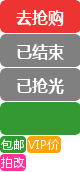
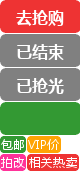
go

Changed region(s): [[0.325, 0.8721, 1.0, 1.0]]

diff --git a/static/public/css/main.css b/static/public/css/main.css
@@ -502,11 +502,12 @@ b.sns-qq_haoyou  { background-position: 0 -3024px; }
     font-weight: bolder;
     font-size: 16px;
     line-height: 33px;
-    background-image: url(/img/button.png);
+    background-image: url(/img/button.png?v=20131011);
     background-position-x: 0;
 }
 .item .action:hover {
     opacity: 0.8;
+    filter: alpha(opacity=80);
     color: white;
     text-decoration: none;
 }
@@ -523,11 +524,11 @@ b.sns-qq_haoyou  { background-position: 0 -3024px; }
     background-position-y: -102px;
 }
 
-.item .post, .item .vip, .item .gai {
+.item .post, .item .vip, .item .gai, .item .remai {
     display: inline-block;
     height: 17px;
     vertical-align: text-bottom;
-    background-image: url(/img/button.png);
+    background-image: url(/img/button.png?v=20131011);
 }
 .item .post {
     width: 26px;
@@ -542,6 +543,15 @@ b.sns-qq_haoyou  { background-position: 0 -3024px; }
 .item .gai {
     width: 26px;
     background-position: 0 -154px;
+}
+.item .remai {
+    width: 53px;
+    float: right;
+    background-position: -27px -154px;
+}
+.item .remai:hover {
+    opacity: 0.8;
+    filter: alpha(opacity=80);
 }
 .item .sns-share {
     margin: 10px 0;

diff --git a/static/css/items.css b/static/css/items.css
@@ -133,11 +133,12 @@
     font-weight: bolder;
     font-size: 16px;
     line-height: 33px;
-    background-image: url(/img/button.png);
+    background-image: url(/img/button.png?v=20131011);
     background-position-x: 0;
 }
 .item .action:hover {
     opacity: 0.8;
+    filter: alpha(opacity=80);
     color: white;
     text-decoration: none;
 }
@@ -154,11 +155,11 @@
     background-position-y: -102px;
 }
 
-.item .post, .item .vip, .item .gai {
+.item .post, .item .vip, .item .gai, .item .remai {
     display: inline-block;
     height: 17px;
     vertical-align: text-bottom;
-    background-image: url(/img/button.png);
+    background-image: url(/img/button.png?v=20131011);
 }
 .item .post {
     width: 26px;
@@ -173,6 +174,15 @@
 .item .gai {
     width: 26px;
     background-position: 0 -154px;
+}
+.item .remai {
+    width: 53px;
+    float: right;
+    background-position: -27px -154px;
+}
+.item .remai:hover {
+    opacity: 0.8;
+    filter: alpha(opacity=80);
 }
 .item .sns-share {
     margin: 10px 0;

diff --git a/static/public/js/main.js b/static/public/js/main.js
@@ -318,9 +318,10 @@ Izheko.item_list_init = function() {
     $w = $(window);
     $("#item_list").on('mouseenter', '.item-wrapper', function(){
         var $this = $(this);
-        var time_left = $this.children('.item').children('.expand').children('.time-left');
+        var item = $this.children('.item');
+        var time_left = item.children('.expand').children('.time-left');
         if(!$this.attr('x')){
-            time_left.after('<div class="sns-share">分享：' + Izheko.SnsShareLib.icons_b + '</div>');
+            time_left.prepend('<a data-itemid="' + item.children('.pic').attr('data-itemid') + '" data-rd="2" class="remai" title="与这个宝贝相关的热卖宝贝" target="_blank"></a>').after('<div class="sns-share">分享：' + Izheko.SnsShareLib.icons_b + '</div>');
             $this.attr('x', 'o');
         }
         Izheko.TimeLeftUpdate.start(time_left.children('span'));

diff --git a/www/view/layout.view.php b/www/view/layout.view.php
@@ -6,9 +6,9 @@
         <meta name="viewport"   content="width=device-width,initial-scale=1.0" />
         <?php require 'module/seo.view.php'; ?>
         <link rel="shortcut icon" href="<?= App::static_server() ?>/img/favicon.ico?v=20130817" />
-        <link charset="utf-8" rel="stylesheet" type="text/css" href="<?= App::static_server() ?>/css/main.css?v=20131011.0" />
+        <link charset="utf-8" rel="stylesheet" type="text/css" href="<?= App::static_server() ?>/css/main.css?v=20131011.2" />
         <script src="<?= App::static_server() ?>/js/jquery.min.js"></script>
-        <script src="<?= App::static_server() ?>/js/main.js?v=20131011.0"></script>
+        <script src="<?= App::static_server() ?>/js/main.js?v=20131011.2"></script>
     </head>
     <body>
         <?php require 'module/header.view.php'; ?>

diff --git a/static/img/button/button.php b/static/img/button/button.php
@@ -33,6 +33,9 @@ function button_img($file)
     $x = 0;
     $y += 18;
     draw_button2($draw, $x, $y, 26, '#f39', '拍改');
+    draw_button2($draw, $x, $y, 53, '#e33', '相关热卖');
+    $x = 0;
+    $y += 18;
     
     $img->drawImage($draw);
     $img->writeImage($file);
